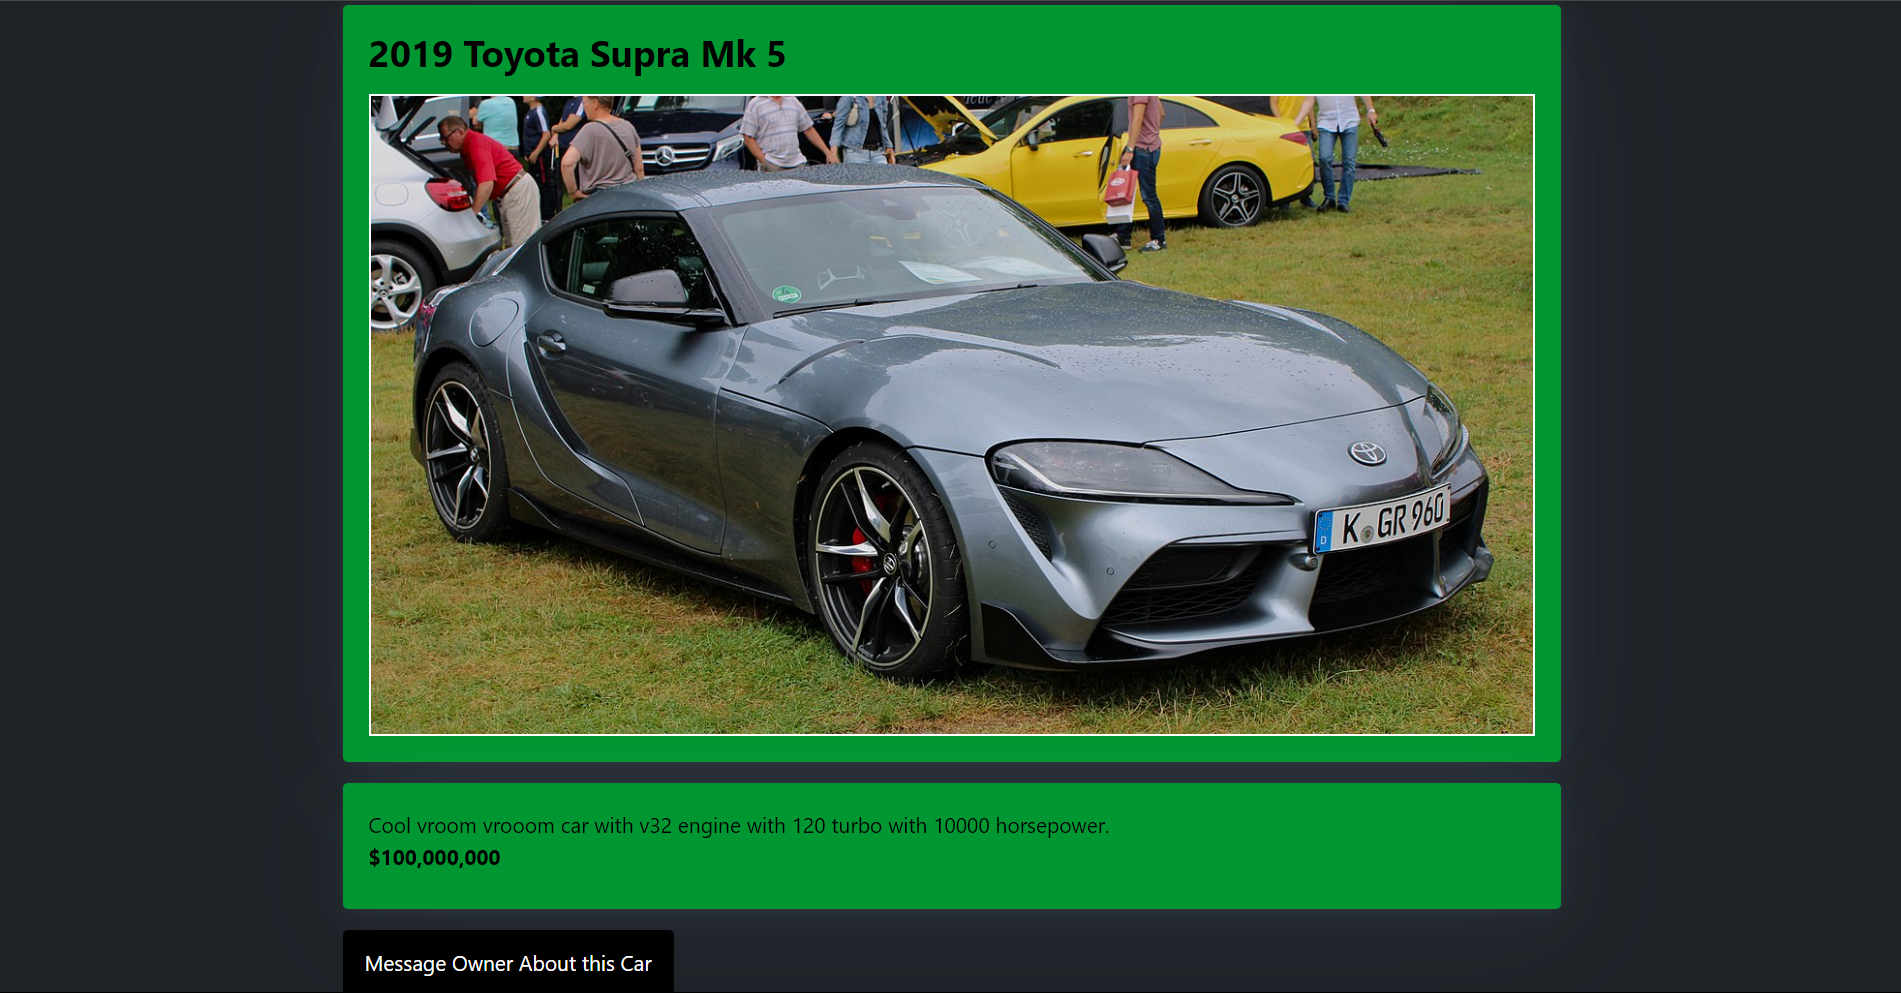
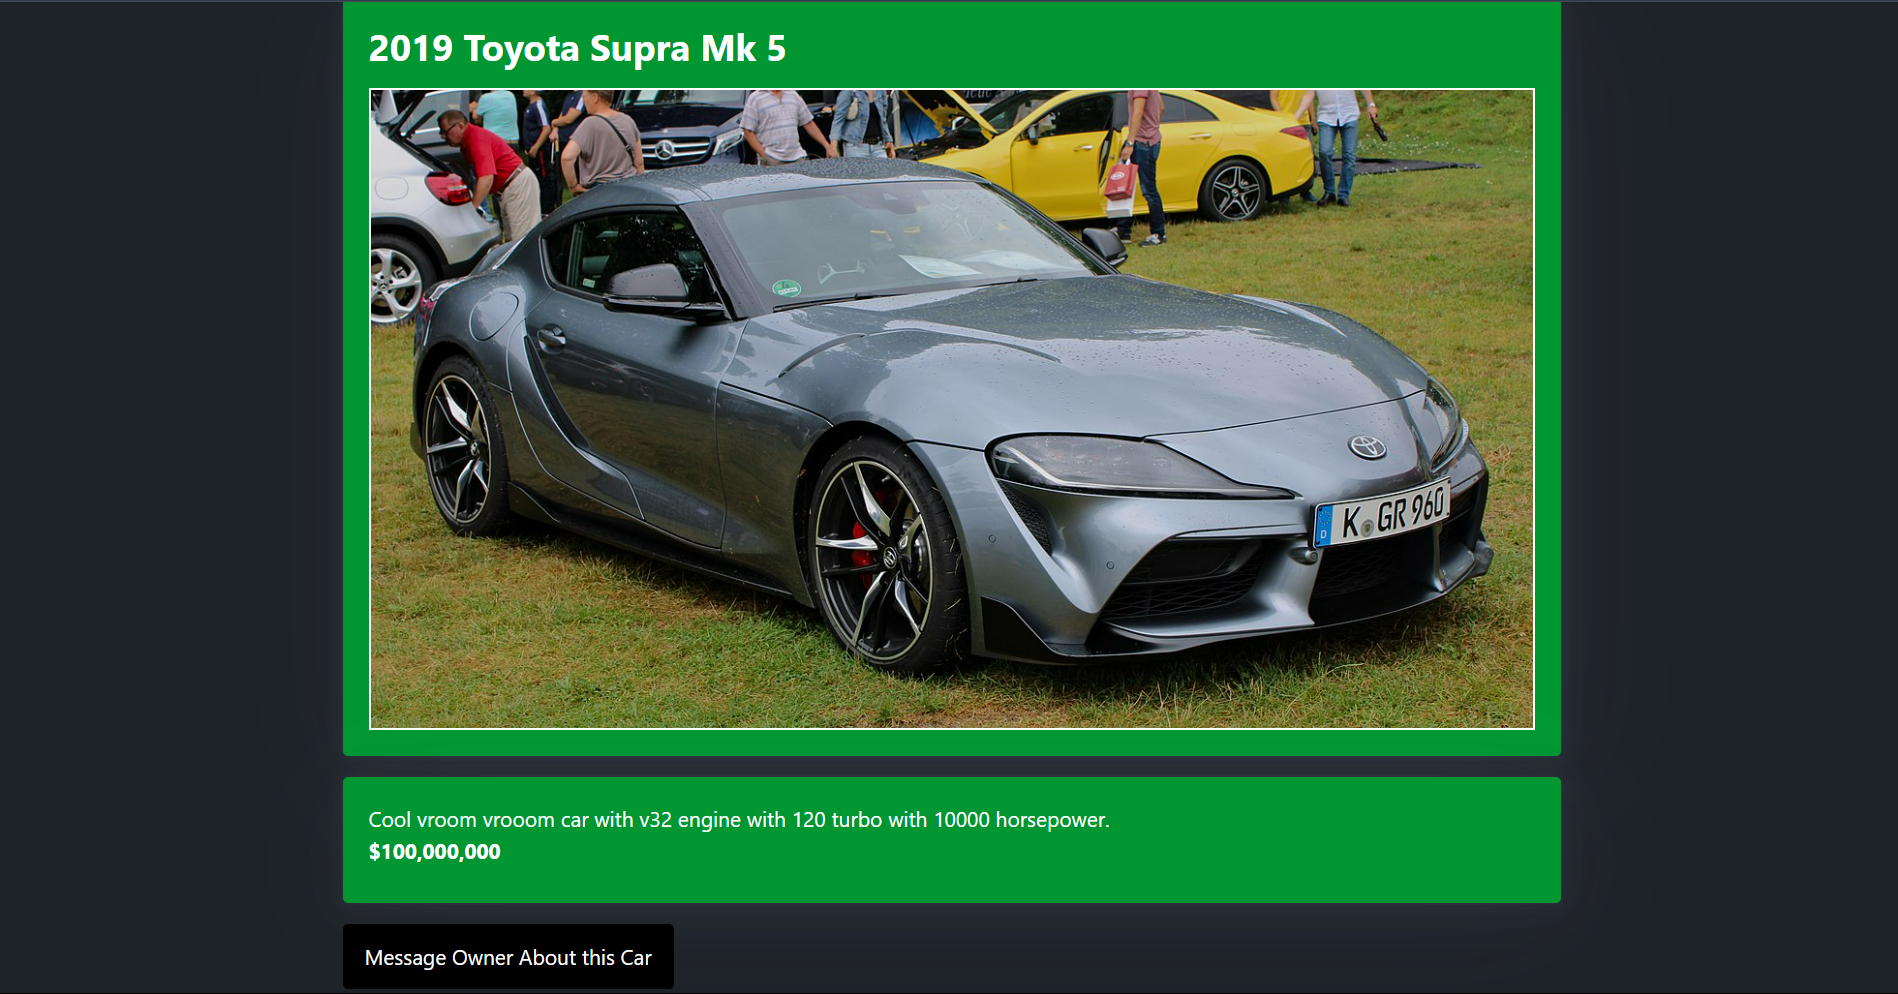
Website Code and Written work done...Yay.

Changed region(s): [[0.1865, 0.0, 0.8393, 0.8741], [0.1865, 0.9053, 0.8082, 0.999]]

diff --git a/site/css/styles.css b/site/css/styles.css
@@ -3,8 +3,8 @@
 
     --border-color:       #009732;
     --accent-color:       #0EC65A;
-    --text-color:         black;
-    --h1-color:           white;
+    --text-color:         white;
+    --black:              black;
     --background-color:   rgb(29, 34, 39);
 
     --link-active-color:  #0EC65A;
@@ -16,6 +16,7 @@ body {
     flex-direction: column;
     min-height: 100vh;
     background-color: var(--background-color);
+    color: var(--text-color);
 }
 
 button {
@@ -27,11 +28,11 @@ button {
 [role=button] {
     background-color: var(--border-color);
     color: var(--text-color);
-    border-color: var(--text-color);
+    border-color: var(--border-color)
 }
 
 h1{
-    color: var(--h1-color);
+    color: var(--text-color);
 }
 
 h2{
@@ -40,7 +41,11 @@ h2{
 }
 
 h3{
-    color: var(--h1-color);
+    color: black;
+}
+
+p{
+    color: var(--text-color);
 }
 
 div.centre {
@@ -57,7 +62,6 @@ div.centre {
 img {
     border: 2px solid white;    
 }
-
   
 /* HEADER ---------------------------------------- */
 
@@ -142,9 +146,9 @@ article h1{
 }
 
 form #button {
-    background-color: var(--text-color);
+    background-color: black;
     color: var(--h1-color);
-    border-color: var(--text-color);
+    border-color: black;
 }
 
 input[type=file] {
@@ -152,9 +156,9 @@ input[type=file] {
 }
 
 #button{
-    background-color: var(--text-color);
+    background-color: black;
     color: var(--h1-color);
-    border-color: var(--text-color);
+    border-color: black;
 }
 
 label {

diff --git a/site/views/pages/welcome.php b/site/views/pages/welcome.php
@@ -6,3 +6,5 @@
     <a href="/login" role="button">Log In</a> or
     <a href="/signup" role="button">Sign Up</a>    
 </div>
+
+

diff --git a/docs/Design.md b/docs/Design.md
@@ -137,7 +137,7 @@ I'll do this by:
 
 Final Homepage Design:
 
-![alt text](images/finalHP.png)
+![alt text](images/newui.png)
 
 Final Colour Scheme:
 
@@ -152,18 +152,20 @@ Final Colour Scheme:
 
 ### User Interface Design
 
-Here is a video of my testing the functionality of my website: 
+Home Page
 
-https://mywaimeaschool-my.sharepoint.com/:v:/g/personal/msmalley_waimea_school_nz/EUZk9MIE97JPn_qntpVFKcsBPJwmSGgS7b_gXa1hDFmc2Q?e=ZvKiT0&nav=eyJyZWZlcnJhbEluZm8iOnsicmVmZXJyYWxBcHAiOiJTdHJlYW1XZWJBcHAiLCJyZWZlcnJhbFZpZXciOiJTaGFyZURpYWxvZy1MaW5rIiwicmVmZXJyYWxBcHBQbGF0Zm9ybSI6IldlYiIsInJlZmVycmFsTW9kZSI6InZpZXcifX0%3D
+![](images/finalhome.png)
 
+View Car
 
+![](images/finalcarinfo.png)
 -------------------------------------------------
 
 ## Review and Evaluation
 
 ### Meeting the Needs of the Users
 
-My interface meets the need of my end users very well. I stated that the end users need to sell their cars they have, and need to see a list of cars that are available to them, and be about to have a way to contact the buyer with an offer for a car they want. My inferface offers answers to both those needs and they work well, and the end users can access them with ease.
+My interface meets the need of my end users very well. I stated that the end users need to sell their cars they have, and need to see a list of cars that are available to them, and be about to have a way to contact the buyer with an offer for a car they want. My interface offers answers to both those needs and they work well, and the end users can access them with ease.
 
 ### Meeting the System Requirements
 
@@ -174,17 +176,17 @@ My interface meets the system requirements effectively. A list I made at the sta
 - When viewing the car, be able to send a message to the owner, asking questions, or making an offer.
 - Each user will have an inbox where they can receive these questions and offers on their vehicles.
 
-The end product caters to every single one of those requirements, with good funtionality. 
+The end product caters to every single one of those requirements, with good functionality. 
 
-### Review of Funtionality
+### Review of Functionality
 
-In my Funtionality needs, I stated I needed to:
+In my Functionality needs, I stated I needed to:
 - Have the design of the website simple and minimalistic
 - Make Page transitions smooth
 
 Looking at the home page of my website, I (and my end user) thinks that the interface is minimalistic and simple. It isn't in your face, and is very self explanatory.
 
-The page transitions are very smooth, because of the use of HTMX Routing. Reloading the page is rarely seen in this interface, and most of the functionality happens on a single page. You will be able to see this in the funtionality video I linked earlier in the document.
+The page transitions are very smooth, because of the use of HTMX Routing. Reloading the page is rarely seen in this interface, and most of the functionality happens on a single page. You will be able to see this in the functionality video I linked earlier in the document.
 
 Home page:
 
@@ -197,7 +199,7 @@ For my Aesthetic needs, I stated I needed to:
 - Getting a good font that works well with said colour scheme
 - Having the content of the page laid out well
 
-The colour scheme I used on my interface is not hard on eyes at all, is very easy to look at and works well with the content on the page. The font in used is a very basic one nothing fancy and simplistic, so that it works well with the colour scheme. The contents of the page are well spaced, centered and don't affect the expereince. 
+The colour scheme I used on my interface is not hard on eyes at all, is very easy to look at and works well with the content on the page. The font in used is a very basic one nothing fancy and simplistic, so that it works well with the colour scheme. The contents of the page are well spaced, centred and don't affect the experience. 
 
 Final colour scheme
 
@@ -215,7 +217,7 @@ For my End-User needs, I stated I needed to:
 - Use cool, masculine type colours
 - Make sure the site is appealing
 
-As you can see from the funtionality video, The UX flows very nicely, and doesn't look clunky at all. I ended up using cool, masculine colours for the interface and they have turned out good, and work very well to make the interface look appealing.
+As you can see from the functionality video, The UX flows very nicely, and doesn't look clunky at all. I ended up using cool, masculine colours for the interface and they have turned out good, and work very well to make the interface look appealing.
 
 Final colour scheme
 
@@ -227,7 +229,7 @@ For my Accessibility needs, I stated I needed:
 - Accessible for the colour-blind
 - Have good colours and fonts.
 
-Althought the main colour of my website is green, none of the website's funtionality is dependant on the colour, (for example, if you have selected something, it turns green and it's red if you haven't selected it) and therefore, the website's overall funtionality is not effected. as stated before, the colours and fonts in the interface work well together, and do not clash.
+Although the main colour of my website is green, none of the website's functionality is dependant on the colour, (for example, if you have selected something, it turns green and it's red if you haven't selected it) and therefore, the website's overall functionality is not effected. as stated before, the colours and fonts in the interface work well together, and do not clash.
 
 Final colour scheme
 
@@ -240,7 +242,7 @@ For my Accessibility needs, I stated I needed:
 - Hashing users passwords for security purposes
 - Making an account should be simple and easy
 
-The process of making an account in the interface is extreamly easy, and straightforward. When the account is make, it is stored in a secure database and the passwords are hashed for extra security. 
+The process of making an account in the interface is extremely easy, and straightforward. When the account is make, it is stored in a secure database and the passwords are hashed for extra security. 
 
 Creating a Login:
 ![alt text](images/makinglogin.png)
@@ -254,7 +256,7 @@ For my Match Between System and the Real World needs, I stated I needed to be:
 - Using navigation that is at the top of the page
 - Having an image to show the car
 
-I incorperated both of these needs into the interface, by having the navigation bar at the top of the screen where it can easly be seen and used, and I am showing pictures of cars on the home page similar to other auto trading websites like AutoTrader and Trade Me to insure maximum familiarity.
+I incorporated both of these needs into the interface, by having the navigation bar at the top of the screen where it can easily be seen and used, and I am showing pictures of cars on the home page similar to other auto trading websites like AutoTrader and Trade Me to insure maximum familiarity.
 
 Home page showing Navigation and Car Images:
 
@@ -266,7 +268,7 @@ For my Consistency and Standards needs, I stated I needed to have:
 - Text that is easy to read for navigation.
 - Have all the navigation on the top of the screen, or in a dropdown menu.
 
-As shown, you can see that the navigation is at the top of the screen, and the text is a good size, evenly spaced and therefore easy to read, and accessable. 
+As shown, you can see that the navigation is at the top of the screen, and the text is a good size, evenly spaced and therefore easy to read, and accessible. 
 
 Home page showing Navigation and Text:
 
@@ -279,7 +281,7 @@ For my Aesthetic and Minimalist Design, I stated I needed to be:
 - Making sure that adding cars to the database is not complicated/extensive
 - Making sure navigating is not overwhelming.
 
-When coding my interface, I made sure to only have essential information in all the pages/screens to insure maximum accessablity for all ages, part of which was making the navigation not overwhelming. The process of adding a car to the database is very easy, and once again, only asks for what is absolutley necessary.
+When coding my interface, I made sure to only have essential information in all the pages/screens to insure maximum accessibility for all ages, part of which was making the navigation not overwhelming. The process of adding a car to the database is very easy, and once again, only asks for what is absolutely necessary.
 
 Home page:
 

diff --git a/docs/Development.md b/docs/Development.md
@@ -151,31 +151,40 @@ Upon editing, I found out that on a light themed device, the background of the w
 
 Before fix:
 
+![Alt text](images/whitetheme1.png)
 
 After fix: (Still white device theme)
+
+![Alt text](images/whitetheme2.png)
 
 ### 14/07/24
 
 Home Page/Seeing Car information
 
-
-The home page in the main page that users will look at. It is where all the different cars that are for sale will show up and can be viewed and interacted with by the viewer. The user can click on the cars and see extra information about it, including the ablity to contact the owner if you are interested in buying it.
+The home page in the main page that users will look at. It is where all the different cars that are for sale will show up and can be viewed and interacted with by the viewer. The user can click on the cars and see extra information about it, including the ability to contact the owner if you are interested in buying it.
 
 Home Page Design:
 
+![Alt text](images/firsthome.png)
 
 Car information Page:
 
+![Alt text](images/firstcarinfo.png)
 
-> User Feedback
+
+> I don't like the two text colours, I think pick one or the other. And maybe a border around the image of the same colour?
 
 How user Feedback was acted upon.
 
 Final Home Page design:
-![alt text](images/finalhome.png)
+
+![Alt text](images/finalhome.png)
 
 Final Car Information Page design:
-![alt text](images/finalcarinfo.png)
+
+![Alt text](images/finalcarinfo.png)
+
+> Yeah, I like that better!
 
 ### 15/07/24
 
@@ -185,9 +194,11 @@ Form for Adding Cars
 I completed the form that allows the user to add cars to sell. and looks neat. the car information is added, and shows up on the home page as intended.
 
 About to add car in 
+
 ![Alt text](images/addingcar.png)
 
 View from Home page after car added.
+
 ![Alt text](images/caradded.png)
 
 > "It looks good, and it does it's job. Could you change the colour of the text that shows you what file you've chosen, it doesn't work well with the green."
@@ -195,6 +206,7 @@ View from Home page after car added.
 I changed the colour of the text that my end user wanted, and I think it looks much better.
 
 Before Change:
+
 ![alt text](images/beforetext.png)
 
 After Change:
@@ -210,12 +222,15 @@ Sending/Recieving Messages
 If the End-User decides they want to buy the car, there is a button down the bottom of the Car information Page that redirects the user to a page where they can send the owner a message to say that they are interested. 
 
 First Page Design:
+
 ![alt text](images/firstmessage.png)
 
 Message Sent:
+
 ![alt text](images/firstsentmessage.png)
 
 Message Received:
+
 ![alt text](images/messageseen.png)
 
 > "Well, The code does what it is meant to. But the smaller text colour on the page you use to send messages is extremely hard to read, fix that please."
@@ -224,47 +239,41 @@ I changed the text colour to white instead of black, and it is much easier to re
 
 Page with white text:
 
+![Alt text](images/finalsentmessage.png)
 
 Message sent with white text:
 
+![Alt text](images/finalmessagesent.png)
 
 >"Yep, that's much better." 
 
+### 23/8/24
 
-### DATE
+HTML Validation
 
-Title of Progress
+Here I am validating the code for the Welcome page of my website. To make sure there is no holes in my code and I have codded it all properly. If you look at the Screenshot, it says there is a message hidden. That is a line of HTMX Routing, and the validator doesn't like that for some reason.
 
+Validation results from Welcome Page:
 
-Details of Project
+![Alt text](images/validate.png)
 
-> User Feedback
+### 23/8/24
 
-How user Feedback was acted upon.
+Site Finished/Functionality video
 
-### DATE
+Here is a video of my testing the functionality of my website. In the video you will see me:
 
-Title of Progress
+-Signing in/Logging out
+-Using the Navigation
+-Adding a Car to the Database
+-Viewing a car
+-Sending a message to an owner
+-Logging into the owners account and viewing the message we sent him
 
-
-Details of Project
-
-> User Feedback
-
-How user Feedback was acted upon.
-
-### DATE
-
-Title of Progress
+https://mywaimeaschool-my.sharepoint.com/:v:/g/personal/msmalley_waimea_school_nz/EUZk9MIE97JPn_qntpVFKcsBPJwmSGgS7b_gXa1hDFmc2Q?e=ZvKiT0&nav=eyJyZWZlcnJhbEluZm8iOnsicmVmZXJyYWxBcHAiOiJTdHJlYW1XZWJBcHAiLCJyZWZlcnJhbFZpZXciOiJTaGFyZURpYWxvZy1MaW5rIiwicmVmZXJyYWxBcHBQbGF0Zm9ybSI6IldlYiIsInJlZmVycmFsTW9kZSI6InZpZXcifX0%3D
 
 
-Details of Project
-
-> User Feedback
-
-How user Feedback was acted upon.
-
-### DATE
+<!-- ### DATE
 
 Title of Progress
 
@@ -273,27 +282,7 @@ Details of Project
 
 > User Feedback
 
-How user Feedback was acted upon.
-
-### DATE
-
-Title of Progress
+How user Feedback was acted upon. -->
 
 
-Details of Project
-
-> User Feedback
-
-How user Feedback was acted upon.
-
-### DATE
-
-Title of Progress
-
-
-Details of Project
-
-> User Feedback
-
-How user Feedback was acted upon.
 
